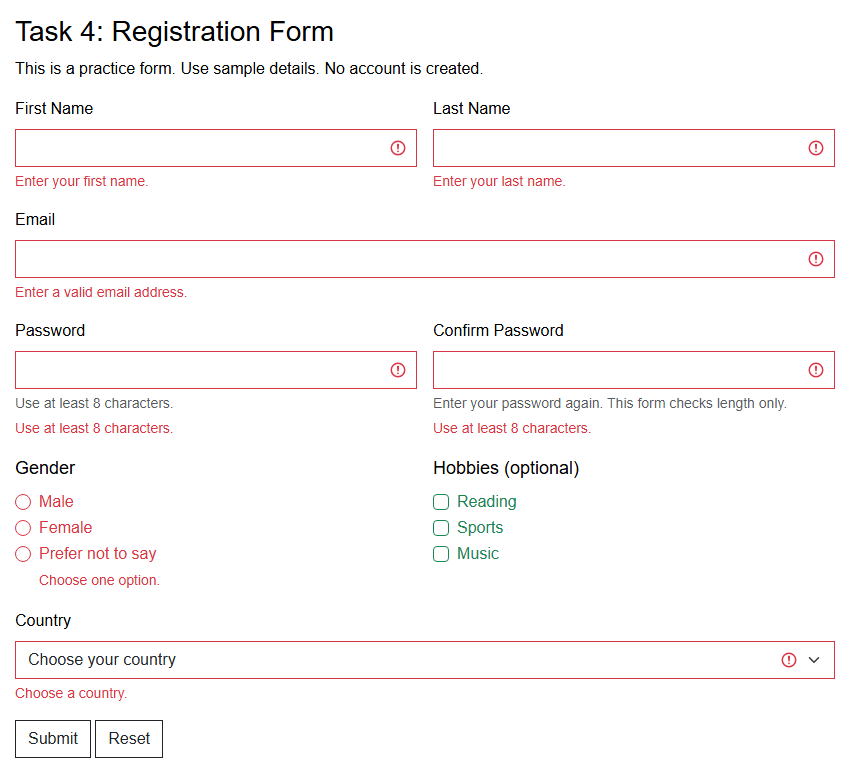
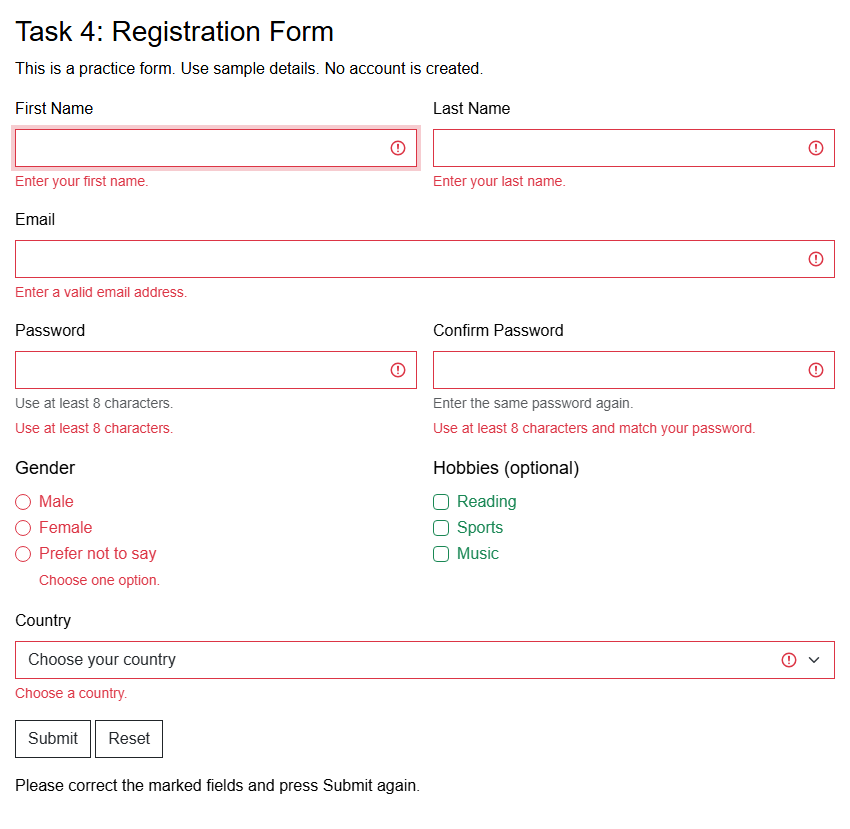
Validate registration passwords and show feedback on submit

diff --git a/assignment4/registration.html b/assignment4/registration.html
@@ -18,7 +18,7 @@
     <main class="page" id="task4">
         <h1>Task 4: Registration Form</h1>
         <p>This is a practice form. Use sample details. No account is created.</p>
-        <form class="row g-3 was-validated" action="complete.html" method="get">
+        <form id="registration-form" class="row g-3" action="complete.html" method="get">
             <div class="col-12 col-md-6">
                 <label for="first-name" class="form-label">First Name</label>
                 <input id="first-name" name="firstName" type="text" class="form-control" maxlength="50" required aria-describedby="first-error first-good">
@@ -47,9 +47,9 @@
             <div class="col-12 col-md-6">
                 <label for="confirm-password" class="form-label">Confirm Password</label>
                 <input id="confirm-password" type="password" class="form-control" minlength="8" required aria-describedby="confirm-help confirm-error confirm-good">
-                <div id="confirm-help" class="form-text">Enter your password again. This form checks length only.</div>
-                <div id="confirm-error" class="invalid-feedback">Use at least 8 characters.</div>
-                <div id="confirm-good" class="valid-feedback">Length is valid.</div>
+                <div id="confirm-help" class="form-text">Enter the same password again.</div>
+                <div id="confirm-error" class="invalid-feedback">Use at least 8 characters and match your password.</div>
+                <div id="confirm-good" class="valid-feedback">Passwords match.</div>
             </div>
             <fieldset class="col-12 col-md-6">
                 <legend>Gender</legend>
@@ -98,9 +98,11 @@
             <div class="col-12">
                 <button type="submit" class="btn btn-outline-dark">Submit</button>
                 <button type="reset" class="btn btn-outline-dark">Reset</button>
+                <p id="form-result" class="mt-3" role="status"></p>
             </div>
         </form>
     </main>
     <footer>Yerkebulan Korganbek | IT-2501</footer>
+    <script src="registration.js"></script>
 </body>
 </html>

diff --git a/assignment4/registration.js b/assignment4/registration.js
@@ -1,0 +1,34 @@
+const form = document.getElementById('registration-form');
+const password = document.getElementById('password');
+const confirmPassword = document.getElementById('confirm-password');
+const result = document.getElementById('form-result');
+
+form.noValidate = true;
+
+form.addEventListener('submit', function (event) {
+    event.preventDefault();
+    confirmPassword.setCustomValidity('');
+
+    if (password.value !== confirmPassword.value) {
+        confirmPassword.setCustomValidity('Passwords must match.');
+    }
+
+    form.classList.add('was-validated');
+
+    if (form.checkValidity()) {
+        result.textContent = 'All fields are correct. This is a demo; no account was created.';
+    } else {
+        result.textContent = 'Please correct the marked fields and press Submit again.';
+        form.querySelector(':invalid').focus();
+    }
+});
+
+function clearFeedback() {
+    form.classList.remove('was-validated');
+    confirmPassword.setCustomValidity('');
+    result.textContent = '';
+}
+
+form.addEventListener('input', clearFeedback);
+form.addEventListener('change', clearFeedback);
+form.addEventListener('reset', clearFeedback);

diff --git a/README.md b/README.md
@@ -14,7 +14,7 @@ Website: https://erkosh-it.github.io/assignment4/
 
 Open assignment4/index.html, or use the website link above. The navigation links open the Bootstrap forms and registration page. Bootstrap is included in the project, so the pages also work offline.
 
-These are practice forms made with HTML, CSS, and Bootstrap CSS. There is no JavaScript. Use sample details when testing. A valid submission opens a simple completion page; it does not create an account. The forms use GET, so named fields appear in the URL. The password fields have no name attribute and are not included in the URL.
+These are practice forms made with HTML, CSS, and Bootstrap CSS. Task 4 also uses a small JavaScript file for password matching and feedback after Submit. Use sample details when testing. Tasks 0 to 3 open a completion page using GET, so named fields appear in the URL. Task 4 stays on the registration page and does not send the entered details or create an account.
 
 ## Task 0: Simple Contact Form
 
@@ -50,9 +50,9 @@ The email form below them uses Bootstrap's was-validated class. This lets Bootst
 
 The registration form includes first and last name, email, password, password confirmation, gender, hobbies, and country. Gender uses radio buttons, so only one option can be selected. Hobbies use checkboxes and are optional, so several can be selected. Country uses a dropdown.
 
-Both password fields need at least 8 characters. HTML checks each field separately; it does not compare the two passwords. The form uses was-validated for Bootstrap feedback without JavaScript. Submit checks the required fields. Reset empties the fields, so the required-field messages appear again.
+Both password fields need at least 8 characters. The registration.js file compares the passwords when Submit is pressed. It then adds was-validated to show Bootstrap error or success feedback. A message below the buttons says whether the form is correct. Editing a field hides the old feedback until Submit is pressed again. Reset clears the fields and feedback.
 
-Empty fields with validation feedback:
+Feedback after submitting empty fields:
 
 ![Registration form errors](assignment4/screenshots/task4-errors.png)
 
@@ -66,7 +66,7 @@ The Bootstrap Grid places related fields beside each other on wider screens. Bel
 
 ## Work Summary
 
-I made the basic contact form, added HTML validation, and then made the Bootstrap versions. I used Bootstrap classes for the layout and feedback. I checked empty fields, incorrect emails, short passwords, valid submissions, and the Reset button. I also checked the pages at mobile, tablet, and desktop widths.
+I made the basic contact form, added HTML validation, and then made the Bootstrap versions. I added a short script to Task 4 to compare passwords and show feedback after Submit. I checked empty fields, incorrect emails, short or different passwords, valid submissions, and the Reset button. I also checked the pages at mobile, tablet, and desktop widths.
 
 ## Resources
 
@@ -75,6 +75,8 @@ I made the basic contact form, added HTML validation, and then made the Bootstra
 [Bootstrap forms documentation](https://getbootstrap.com/docs/5.3/forms/overview/)
 
 [Bootstrap validation documentation](https://getbootstrap.com/docs/5.3/forms/validation/)
+
+[MDN form validation](https://developer.mozilla.org/en-US/docs/Learn_web_development/Extensions/Forms/Form_validation)
 
 Bootstrap version: 5.3.3.
 
